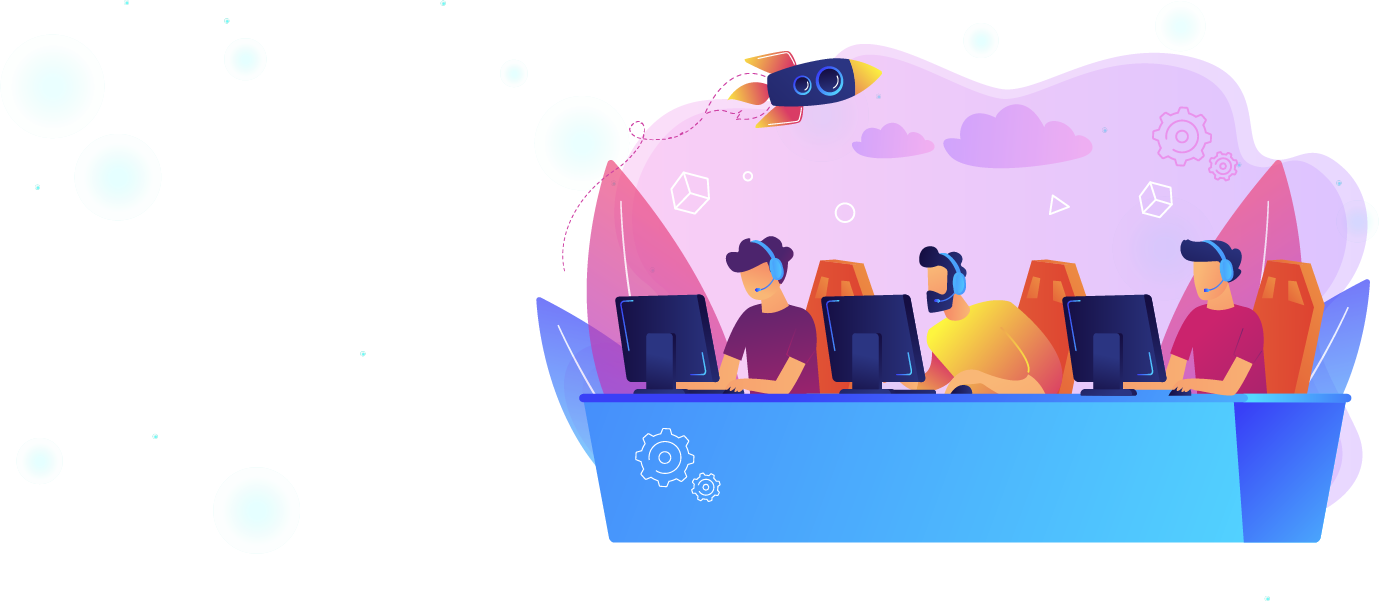
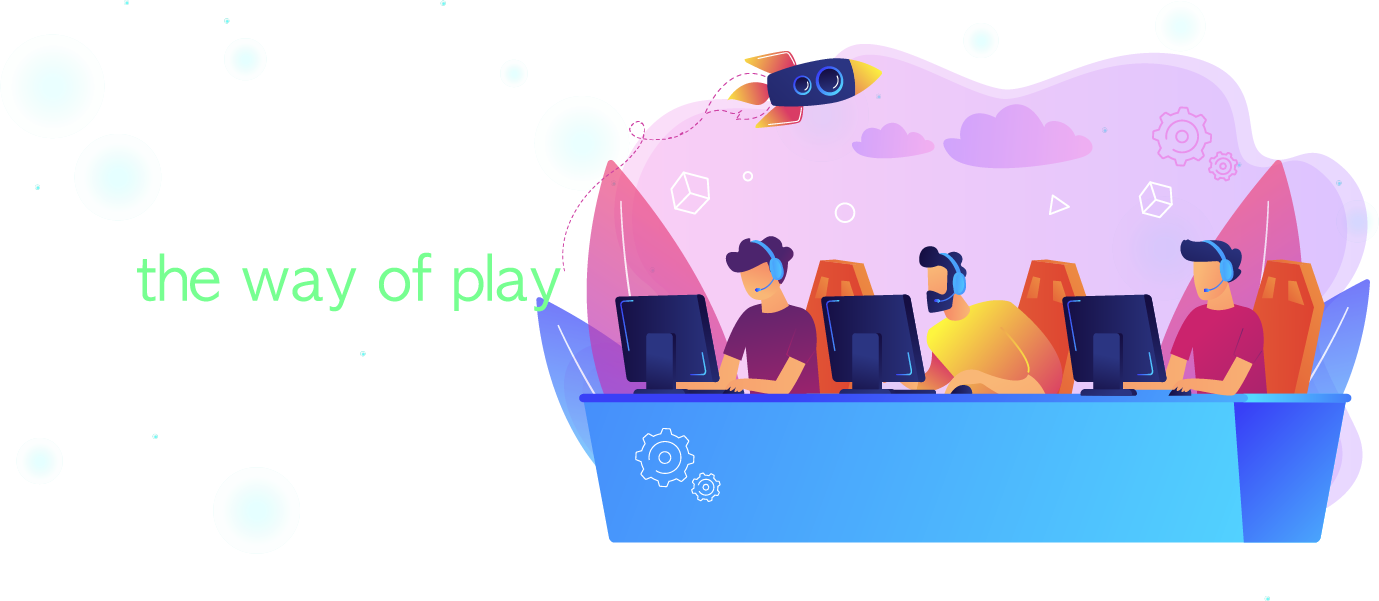
update pics

Changed region(s): [[0.0935, 0.4193, 0.4054, 0.5092]]

diff --git a/src/Routes/Product/ProductPresenter.js b/src/Routes/Product/ProductPresenter.js
@@ -6,14 +6,13 @@ import { dbService } from "../../fbase";
 import { dockId } from "../../Routes/Auth";
 
 import busta_cheer_01 from "../../assets/img/busta_cheer_01.png";
-
 import busta_cheer_02 from "../../assets/img/busta_cheer_02_01.png";
 import privace from "../../assets/img/privace.png";
 import waytoplay from "../../assets/img/waytoplay.png";
-import multiSign from "../../assets/img/multiSign.png";
+import multiSign from "../../assets/img/multiSign800.png";
 
 // import busta_cheer_07 from "../../assets/img/busta_cheer_07.jpg";
-import busta_cheer_08 from "../../assets/img/busta_cheer_08.jpg";
+import howtoplay from "../../assets/img/howtoplay.png";
 import busta_cheer_09 from "../../assets/img/busta_cheer_09.png";
 
 const Container = styled.div`
@@ -141,7 +140,7 @@ const ProductPresenter = () => {
 
       <Section>
         <Title>부스타 이용방법 </Title>
-        <ImgSection img={busta_cheer_08}></ImgSection>
+        <ImgSection img={howtoplay}></ImgSection>
         <Description>
           부스타는 bustadice에서 2배당 이상에 배팅을 할 경우, 유저가
           배팅하려하는 판의 배당 숫자가 2배당 이하(게임에 지는 숫자)가 연속으로
